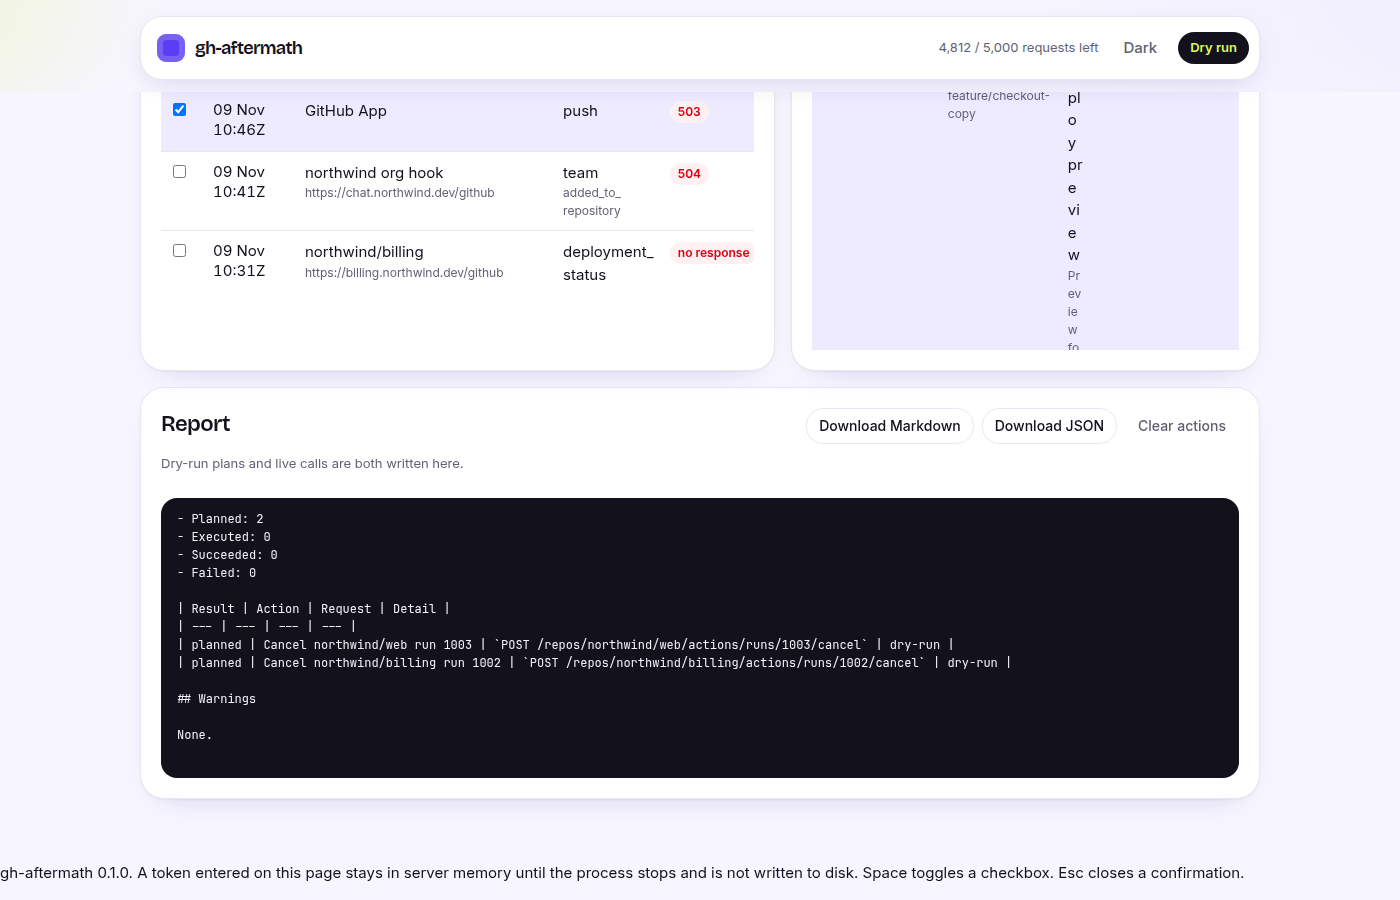
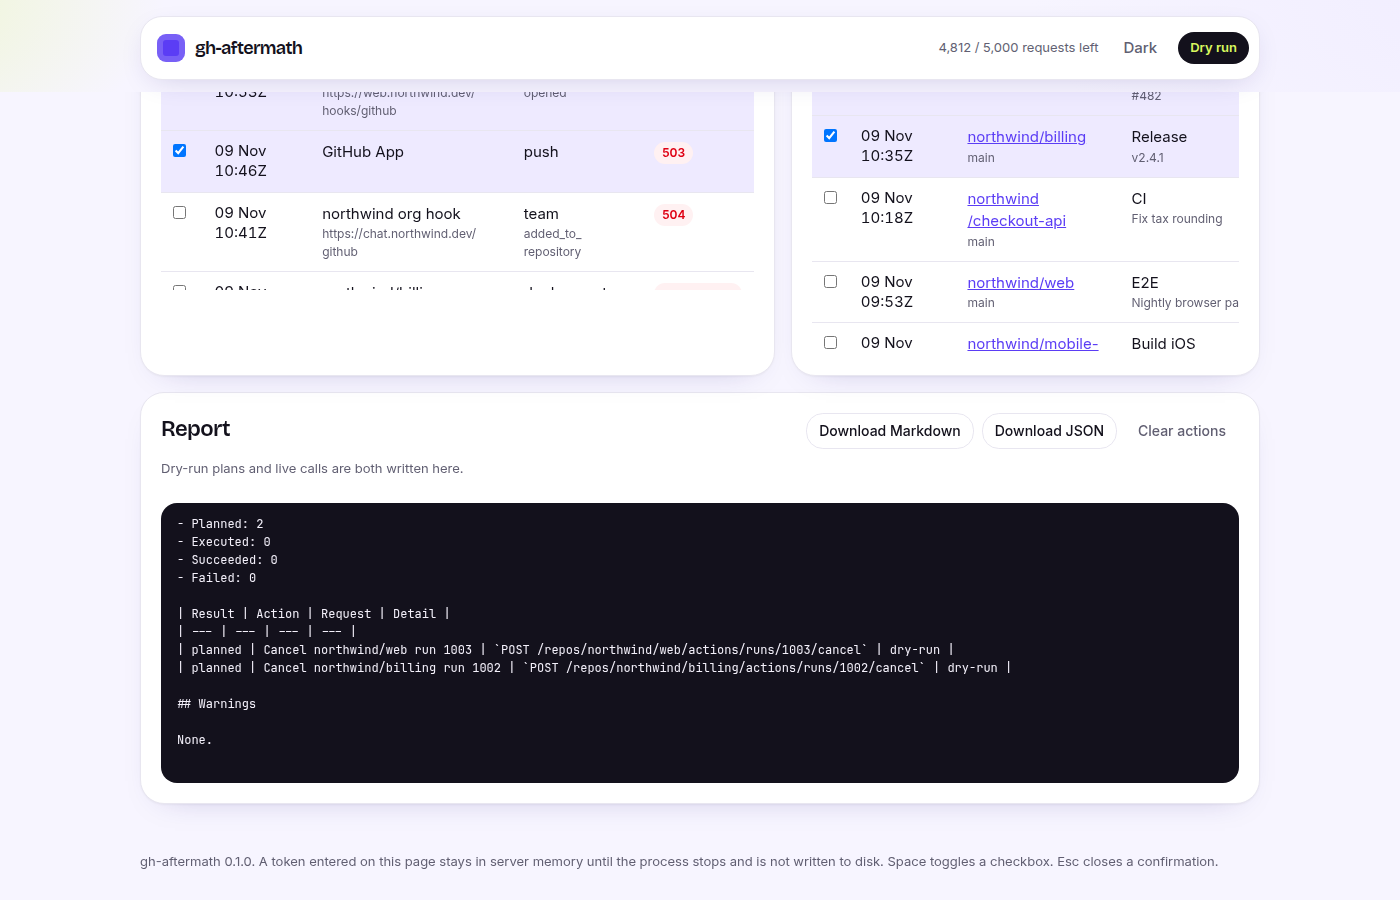
fix: give the runs table columns room to hold whole words
Repository and Workflow stay about 10rem wide, the table scrolls inside a narrow card, and the footer lines up with the page.

diff --git a/src/ui/styles.ts b/src/ui/styles.ts
@@ -306,24 +306,27 @@ svg#timeline { width: 100%; height: 78px; display: block; margin-top: 8px; }
 .count { color: var(--muted-foreground); font-family: var(--font-body); font-weight: 500; font-size: 16px; letter-spacing: 0; }
 .table-scroll { position: relative; max-height: 360px; max-width: 100%; min-width: 0; overflow: auto; margin-top: 12px; }
 table { width: 100%; border-collapse: collapse; }
-.deliveries { table-layout: fixed; }
+.deliveries, .runs { table-layout: fixed; width: 100%; }
+.deliveries { min-width: 36rem; }
+.runs { min-width: 40rem; }
 .deliveries th:nth-child(1) { width: 2.75rem; }
-.deliveries th:nth-child(2),
-.runs th:nth-child(2) { width: 5.75rem; }
+.deliveries th:nth-child(2) { width: 6.5rem; }
+.deliveries th:nth-child(3) { width: 34%; }
+.deliveries th:nth-child(4) { width: 22%; }
+.deliveries th:nth-child(5) { width: 6.5rem; }
+.runs th:nth-child(1) { width: 2.5rem; }
+.runs th:nth-child(2) { width: 6.5rem; }
+.runs th:nth-child(3) { width: 10rem; }
+.runs th:nth-child(4) { width: 10rem; }
+.runs th:nth-child(5) { width: 6.5rem; }
+.runs th:nth-child(6) { width: 3.5rem; }
 td.when {
   font-family: Inter, var(--font-body), sans-serif;
   font-variant-numeric: tabular-nums lining-nums;
   font-feature-settings: "tnum" 1;
 }
 .when-date, .when-time { display: block; white-space: nowrap; line-height: 1.35; }
-.place { display: block; max-width: 100%; overflow-wrap: break-word; }
-.runs th:nth-child(3) { width: 7.5rem; }
-.deliveries th:nth-child(4) { width: 18%; }
-.deliveries th:nth-child(5) { width: 5.75rem; }
-.runs { table-layout: fixed; width: 100%; }
-.runs th:nth-child(1) { width: 2.25rem; }
-.runs th:nth-child(5) { width: 6.25rem; }
-.runs th:nth-child(6) { width: 3rem; }
+.place { display: block; max-width: 100%; overflow-wrap: normal; word-break: normal; }
 .table-scroll .mono { white-space: normal; }
 th, td { text-align: left; padding: 10px 8px; border-bottom: 1px solid var(--border); vertical-align: top; }
 th { position: sticky; top: 0; background: var(--card); color: var(--muted-foreground); font-size: 12px; font-weight: 600; }
@@ -392,7 +395,7 @@ dialog::backdrop { background: rgba(19, 17, 28, 0.48); }
 .dialog-actions { display: flex; justify-content: flex-end; gap: 8px; margin-top: 18px; }
 .toast { display: none; }
 .toast.error { display: none; }
-footer.note {
+p.note {
   width: min(1120px, calc(100% - 32px));
   margin: 0 auto 28px;
   color: var(--muted-foreground);

diff --git a/tests/a11y.test.ts b/tests/a11y.test.ts
@@ -159,14 +159,32 @@ describe("accessibility", () => {
           const cells = document.querySelectorAll(
             "#deliveries-body td.when, #deliveries-body td.repo, #runs-body td.when, #runs-body td.repo, #runs-body td.workflow",
           );
+          const minText = 6 * 16;
           for (const cell of cells) {
+            if (!(cell instanceof HTMLElement)) continue;
             const next = cell.nextElementSibling;
             if (next instanceof HTMLElement && hits(box(cell), box(next))) {
               problems.push(`overlap ${cell.textContent?.trim()} / ${next.textContent?.trim()?.slice(0, 40)}`);
             }
+            if (cell.getBoundingClientRect().width < minText - 1) {
+              problems.push(`narrow ${Math.round(cell.getBoundingClientRect().width)}px ${cell.textContent?.trim()?.slice(0, 40)}`);
+            }
             if (cell.scrollWidth > cell.clientWidth + 1) problems.push(`clipped ${cell.textContent?.trim()?.slice(0, 40)}`);
-            for (const part of cell.querySelectorAll(".when-date, .when-time, .place, a.place")) {
-              if (part.scrollWidth > part.clientWidth + 1) problems.push(`part clipped ${part.textContent?.trim()?.slice(0, 40)}`);
+            const walker = document.createTreeWalker(cell, NodeFilter.SHOW_TEXT);
+            while (walker.nextNode()) {
+              const node = walker.currentNode;
+              if (!(node instanceof Text) || node.parentElement?.closest(".sub")) continue;
+              const source = node.textContent ?? "";
+              const pattern = /[A-Za-z0-9]{4,}/g;
+              let match: RegExpExecArray | null;
+              while ((match = pattern.exec(source))) {
+                const word = match[0];
+                if (word.length < 4) continue;
+                const range = document.createRange();
+                range.setStart(node, match.index);
+                range.setEnd(node, match.index + word.length);
+                if (range.getClientRects().length > 1) problems.push(`split ${word}`);
+              }
             }
           }
           return problems;
